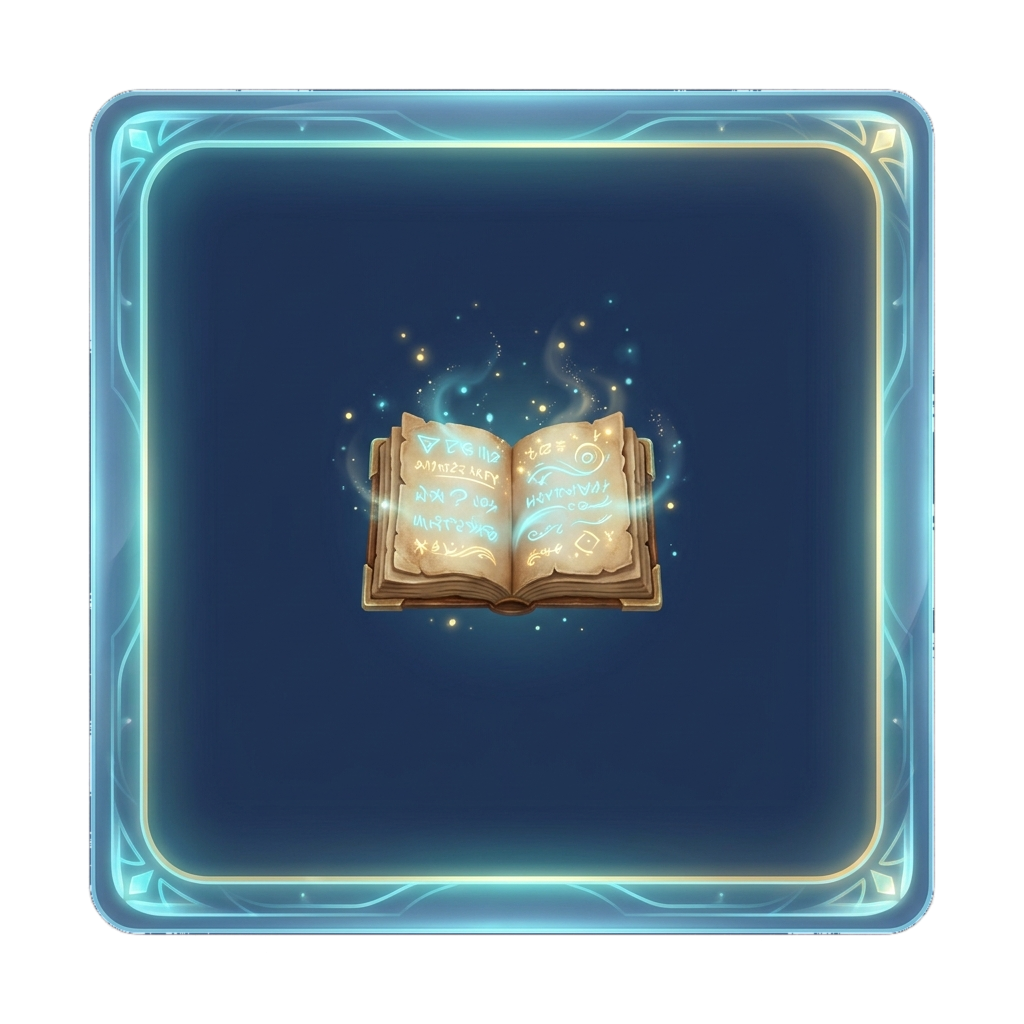
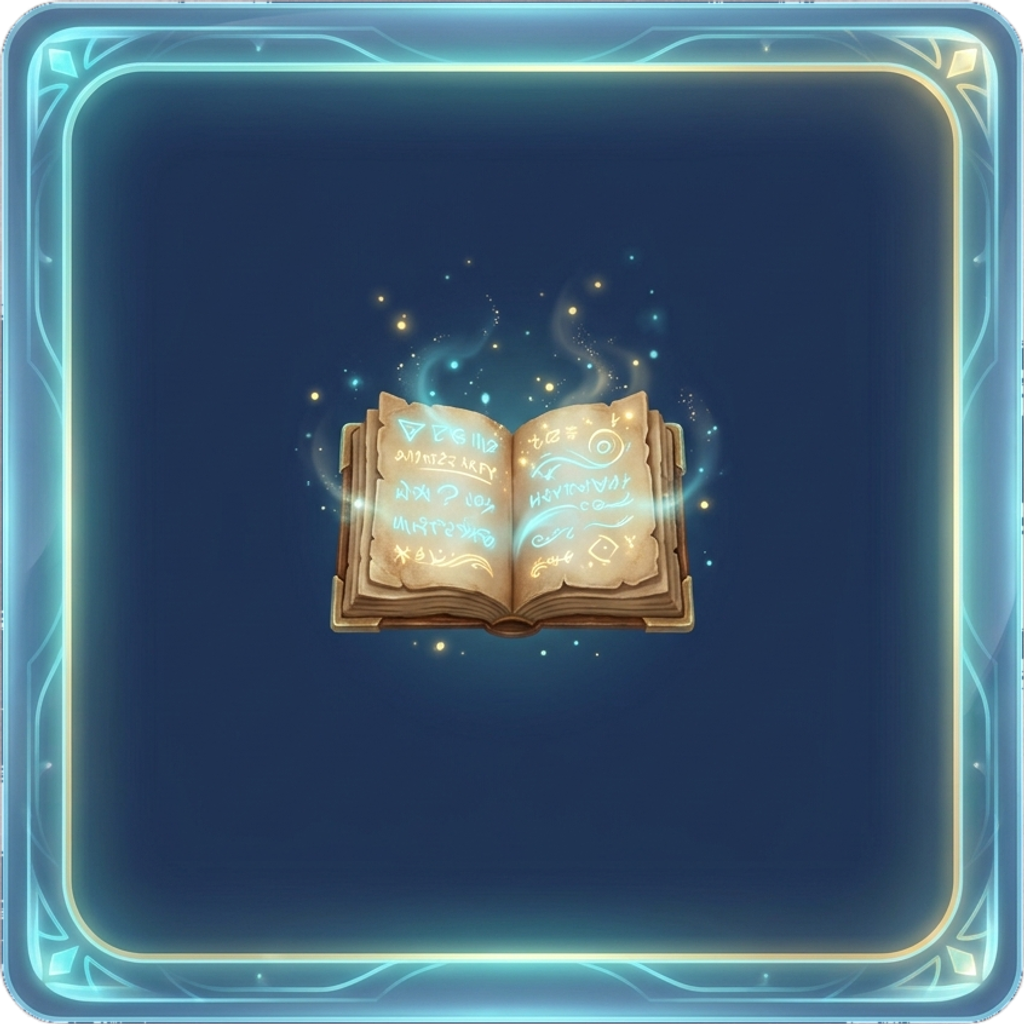
fix(board): crop all slot images edge-to-edge, sync ui/assets, and resize field cards to fit cleanly inside slots

diff --git a/ui/style.css b/ui/style.css
@@ -7418,7 +7418,7 @@ button.gold:hover:not(:disabled) {
 
 /* ================= PORTAL SLOT ARTWORK ON BOTH SIDES (OPPONENT & PLAYER) ================= */
 .cosmic-slot.cosmic-pioneer {
-  background: transparent url('assets/board/slot_pioneer.png?v=6.5') center center / 100% 100% no-repeat !important;
+  background: transparent url('assets/board/slot_pioneer.png?v=7.0') center center / 100% 100% no-repeat !important;
   border: none !important;
   box-shadow: 0 0 16px rgba(250, 204, 21, 0.45) !important;
   border-radius: 8px !important;
@@ -7430,7 +7430,7 @@ button.gold:hover:not(:disabled) {
 }
 
 .cosmic-slot.cosmic-entity {
-  background: transparent url('assets/board/slot_entity.png?v=6.5') center center / 100% 100% no-repeat !important;
+  background: transparent url('assets/board/slot_entity.png?v=7.0') center center / 100% 100% no-repeat !important;
   border: none !important;
   box-shadow: 0 0 14px rgba(249, 115, 22, 0.4) !important;
   border-radius: 8px !important;
@@ -7442,7 +7442,7 @@ button.gold:hover:not(:disabled) {
 }
 
 .cosmic-slot.cosmic-distortion {
-  background: transparent url('assets/board/slot_distortion.png?v=6.5') center center / 100% 100% no-repeat !important;
+  background: transparent url('assets/board/slot_distortion.png?v=7.0') center center / 100% 100% no-repeat !important;
   border: none !important;
   box-shadow: 0 0 14px rgba(45, 212, 191, 0.4) !important;
   border-radius: 8px !important;
@@ -7454,7 +7454,7 @@ button.gold:hover:not(:disabled) {
 }
 
 .cosmic-slot.cosmic-chronicle {
-  background: transparent url('assets/board/slot_chronicle.png?v=6.5') center center / 100% 100% no-repeat !important;
+  background: transparent url('assets/board/slot_chronicle.png?v=7.0') center center / 100% 100% no-repeat !important;
   border: none !important;
   box-shadow: 0 0 14px rgba(56, 189, 248, 0.4) !important;
   border-radius: 8px !important;
@@ -7469,7 +7469,7 @@ button.gold:hover:not(:disabled) {
 }
 
 .cosmic-slot.cosmic-abyss {
-  background: transparent url('assets/board/slot_abyss.png?v=6.5') center center / 100% 100% no-repeat !important;
+  background: transparent url('assets/board/slot_abyss.png?v=7.0') center center / 100% 100% no-repeat !important;
   border: none !important;
   box-shadow: 0 0 14px rgba(168, 85, 247, 0.4) !important;
   border-radius: 8px !important;
@@ -7484,7 +7484,7 @@ button.gold:hover:not(:disabled) {
 }
 
 .cosmic-slot.cosmic-astral {
-  background: transparent url('assets/board/slot_astral.png?v=6.5') center center / 100% 100% no-repeat !important;
+  background: transparent url('assets/board/slot_astral.png?v=7.0') center center / 100% 100% no-repeat !important;
   border: none !important;
   box-shadow: 0 0 14px rgba(6, 182, 212, 0.4) !important;
   border-radius: 8px !important;
@@ -7499,7 +7499,7 @@ button.gold:hover:not(:disabled) {
 }
 
 .cosmic-slot.cosmic-exile {
-  background: transparent url('assets/board/slot_exile.png?v=6.5') center center / 100% 100% no-repeat !important;
+  background: transparent url('assets/board/slot_exile.png?v=7.0') center center / 100% 100% no-repeat !important;
   border: none !important;
   box-shadow: 0 0 14px rgba(239, 68, 68, 0.4) !important;
   border-radius: 8px !important;
@@ -7519,7 +7519,7 @@ button.gold:hover:not(:disabled) {
   width: var(--sq-size) !important;
   height: var(--sq-size) !important;
   aspect-ratio: 1 / 1 !important;
-  background: transparent url('assets/board/slot_field.png?v=6.5') center center / 100% 100% no-repeat !important;
+  background: transparent url('assets/board/slot_field.png?v=7.0') center center / 100% 100% no-repeat !important;
   border: none !important;
   box-shadow: 0 0 16px rgba(129, 140, 248, 0.45) !important;
   border-radius: 8px !important;
@@ -7704,14 +7704,17 @@ button.gold:hover:not(:disabled) {
 /* ================= CARDS INSIDE COSMIC BOARD SLOTS ================= */
 /* การ์ดในช่องสนาม: ทรงสี่เหลี่ยมผืนผ้า (5:7) พอดีช่อง ไม่ล้นกรอบ ไม่บังขอบช่อง */
 .cosmic-slot .card,
-.cosmic-slot > .card {
+.cosmic-slot > .card,
+.slot.cosmic-slot .card,
+.slot.cosmic-slot > .card,
+.card.on-field {
   position: relative !important;
-  height: calc(var(--sq-size) * 0.88) !important;
-  width: calc(var(--sq-size) * 0.88 * 5 / 7) !important;
-  max-height: calc(var(--sq-size) * 0.88) !important;
-  max-width: calc(var(--sq-size) * 0.88 * 5 / 7) !important;
+  height: calc(var(--sq-size) * 0.82) !important;
+  width: calc(var(--sq-size) * 0.82 * 5 / 7) !important;
+  max-height: calc(var(--sq-size) * 0.82) !important;
+  max-width: calc(var(--sq-size) * 0.82 * 5 / 7) !important;
   aspect-ratio: 5 / 7 !important;
-  border-radius: 5px !important;
+  border-radius: 4px !important;
   border-width: 1.5px !important;
   border-style: solid !important;
   margin: auto !important;
@@ -9602,6 +9605,13 @@ button.gold:hover:not(:disabled) {
     padding: 2px !important;
     box-shadow: 0 2px 6px rgba(0, 0, 0, 0.28) !important;
   }
+  .slot.cosmic-slot,
+  .cosmic-slot {
+    border: none !important;
+    border-width: 0 !important;
+    padding: 0 !important;
+    box-shadow: none !important;
+  }
   .sketch-slot-wm {
     font-size: clamp(0.52rem, calc(var(--sq-size) * 0.145), 0.78rem) !important;
     font-weight: 900 !important;
@@ -9642,16 +9652,25 @@ button.gold:hover:not(:disabled) {
     font-weight: 900 !important;
   }
 
-  /* การ์ดในช่องสนาม */
+  /* การ์ดในช่องสนาม: ทรงสี่เหลี่ยมผืนผ้า (5:7) พอดีช่อง ไม่ล้นกรอบ ไม่บังขอบช่อง */
   .sketch-slot .card,
-  .sketch-slot > .card {
-    height: calc(var(--sq-size) - 6px) !important;
-    width: calc((var(--sq-size) - 6px) * 5 / 7) !important;
-    max-height: calc(var(--sq-size) - 6px) !important;
-    max-width: calc((var(--sq-size) - 6px) * 5 / 7) !important;
+  .sketch-slot > .card,
+  .cosmic-slot .card,
+  .cosmic-slot > .card,
+  .slot.cosmic-slot .card,
+  .slot.cosmic-slot > .card,
+  .slot[data-slot] .card,
+  .slot[data-spell-slot] .card,
+  .card.on-field {
+    height: calc(var(--sq-size) * 0.82) !important;
+    width: calc(var(--sq-size) * 0.82 * 5 / 7) !important;
+    max-height: calc(var(--sq-size) * 0.82) !important;
+    max-width: calc(var(--sq-size) * 0.82 * 5 / 7) !important;
+    aspect-ratio: 5 / 7 !important;
     border-width: 1.5px !important;
     border-radius: 4px !important;
     box-shadow: 0 2px 6px rgba(0, 0, 0, 0.4) !important;
+    margin: auto !important;
   }
 
   /* แผงขวาตามแบบร่าง (Frontier Point, Profile, Acana) แสดงข้อมูลคมชัด */

diff --git a/index.html b/index.html
@@ -7,7 +7,7 @@
 <link rel="preconnect" href="https://fonts.googleapis.com">
 <link rel="preconnect" href="https://fonts.gstatic.com" crossorigin>
 <link href="https://fonts.googleapis.com/css2?family=Itim&family=Mali:wght@500;600;700;800;900&family=Sarabun:wght@400;600;700;800&display=swap" rel="stylesheet">
-<link rel="stylesheet" href="ui/style.css?v=6.7">
+<link rel="stylesheet" href="ui/style.css?v=7.0">
 <link rel="stylesheet" href="ui/lobby.css?v=4.6">
 </head>
 <body>
